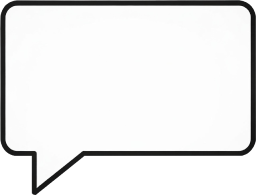
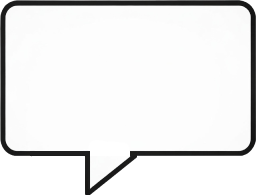
next story part

Changed region(s): [[0.0938, 0.7692, 0.5312, 1.0]]

diff --git a/Assets/GamePlay/Scripts/GameManager.cs b/Assets/GamePlay/Scripts/GameManager.cs
@@ -1,5 +1,4 @@
 using UnityEngine;
-using DG.Tweening;
 using Core.DB.Variables;
 using UnityEngine.AddressableAssets;
 using UnityEngine.ResourceManagement.AsyncOperations;
@@ -16,7 +15,6 @@ namespace Core.GamePlay
 
         int SpriteChangeCount = 20;
         int _currentBG, _currentGround;
-        float _gameplayPositionMC = -1.5f, _storylinePositionMC= -2f, _moveDuration = 0.25f;
 
         private void Start()
         {
@@ -89,13 +87,11 @@ namespace Core.GamePlay
             GameplayUI.SetActive(false);
             StorylineUI.SetActive(true);
             CurrentStorylineHandler.CountinueStory(storyIndex);
-            MC.DOLocalMoveX(_storylinePositionMC, _moveDuration);
 
         }
 
         void SwitchToGameplay()
         {
-            MC.DOLocalMoveX(_gameplayPositionMC, _moveDuration);
             GameplayEnvironment.SetActive(true);
             CurrentGameplayHandler.CountinueGameplay();
         }

diff --git a/Assets/GamePlay/Scripts/StoryOne.cs b/Assets/GamePlay/Scripts/StoryOne.cs
@@ -8,7 +8,7 @@ namespace Core.GamePlay
         [SerializeField] McTalking MC;
         [SerializeField] Animation GirlFriend, Rohan;
 
-        float _rohanPosition = 2.5f, _moveDuration = 0.1f;
+        float _rohanPosition = 2f, _moveDuration = 0.1f;
 
         private void Start()
         {
